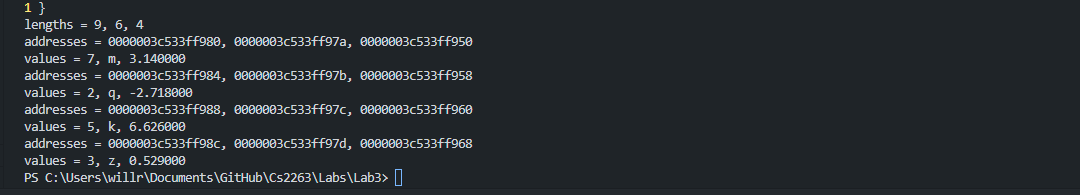
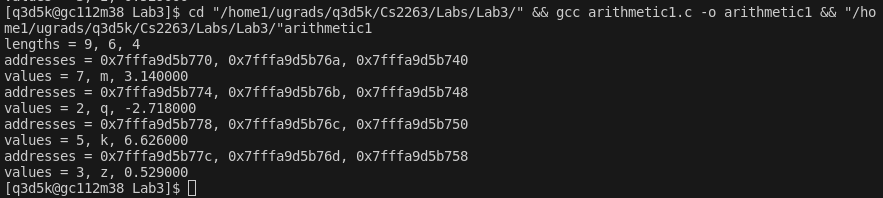
done

Changed region(s): [[0.0, 0.0, 1.0, 0.9846]]

diff --git a/Labs/Lab3/arithmetic1.c b/Labs/Lab3/arithmetic1.c
@@ -19,7 +19,7 @@ int main (int argc ,char * * argv)
     double * dptr = arr3;
 
 
-    printf("addresses = %p, %p, %p\n", (void*) iptr, (void*) cptr, (void*) dptr);
+    printf("addresses = %p, %p, %p\n",  iptr, cptr, dptr);
     printf("values = %d, %c, %f\n", * iptr, * cptr, * dptr);
 
 
@@ -28,7 +28,7 @@ int main (int argc ,char * * argv)
     dptr ++;
 
 
-    printf("addresses = %p, %p, %p\n", (void*) iptr, (void*) cptr, (void*) dptr);
+    printf("addresses = %p, %p, %p\n", iptr, cptr, dptr);
     printf("values = %d, %c, %f\n", * iptr, * cptr, * dptr);
 
 
@@ -36,7 +36,7 @@ int main (int argc ,char * * argv)
     cptr ++;
     dptr ++;
 
-    printf("addresses = %p, %p, %p\n", (void*) iptr, (void*) cptr, (void*) dptr);
+    printf("addresses = %p, %p, %p\n", iptr, cptr, dptr);
     printf("values = %d, %c, %f\n", * iptr, * cptr, * dptr);
 
 
@@ -45,7 +45,7 @@ int main (int argc ,char * * argv)
     dptr ++;
 
 
-    printf("addresses = %p, %p, %p\n", (void*) iptr, (void*) cptr, (void*) dptr);
+    printf("addresses = %p, %p, %p\n", iptr, cptr, dptr);
     printf("values = %d, %c, %f\n", * iptr, * cptr, * dptr);
 
 

diff --git a/Labs/Lab3/arrPrint.c b/Labs/Lab3/arrPrint.c
@@ -6,7 +6,7 @@ void printArray(int arr[], int len){
     int *aptr = arr;
     printf("Index\tValue\tAddress\t\t\tValue\n");
     for(int i = 0; i < len; i++){
-        printf("%d\t%d\t%p\t%d\n", i, arr[i], &arr[i], *aptr++);
+        printf("%d\t%d\t%p\t%d\n", i, arr[i], arr[i], *aptr++);
 
     }
 }
@@ -19,14 +19,14 @@ int arrindex(int a[], int * p){
 int main (int argc ,char * * argv)
 {
     //for exercise 2
-    int arr[] = {10, 11, 12, 13, 14, 15, 16};
-    int len = sizeof(arr) / sizeof(int);
-    printArray(arr, len);
+    // int arr[] = {10, 11, 12, 13, 14, 15, 16};
+    // int len = sizeof(arr) / sizeof(int);
+    // printArray(arr, len);
 
     //for exercise 3
-    // int arr[] = {10, 11, 12, 13, 14, 15, 16};
-    // for (int i = 0; i < sizeof(arr)/sizeof(arr[0]); i ++){
-    //     printf ("%d\t%p\n", i, arrindex( arr, & arr[i]));
-    // }
+    int arr[] = {10, 11, 12, 13, 14, 15, 16};
+    for (int i = 0; i < sizeof(arr)/sizeof(arr[0]); i ++){
+        printf ("%d\t%d\n", i, arrindex( arr, & arr[i]));
+    }
     return EXIT_SUCCESS;
 }

diff --git a/Labs/Lab3/wrongindex.c b/Labs/Lab3/wrongindex.c
@@ -17,13 +17,14 @@ int main(int argc, char * * argv)
 
 
     //one invaild
-    printf("& of arr[%d] = %p\n", -1, (void *)&arr[-1]);
+    printf("& of arr[%d] %d\t%p\n", -1,arr[-1], &arr[-1]);
 
     //all valid
-    for(int i = 0; i < sizeof(arr)/sizeof(arr[0]); i++){
-        printf("& of arr[%d] = %p\n", i, (void *)&arr[i]);
+    for(int i = 0; i < sizeof(arr)/sizeof(arr[0]) + 1; i++){
+
+        printf("& of arr[%d]\t%d\t%p\n", i,arr[i], &arr[i]);
+
     }
-   
 
     printf("x = %d, y = %d\n", x, y);
 

diff --git a/Labs/Lab3/README.md b/Labs/Lab3/README.md
@@ -103,17 +103,17 @@ Yes all the pointer varibles are being incremented between the successive print 
 
 #### tptr (int pointer)
 
-The increment is 4 bytes (0000003c533ff980 - 0000003c533ff984 - 0000003c533ff988 - 0000003c533ff98c)
+The increment is 4 bytes (0x7fffa9d5b770 - 0x7fffa9d5b774 - 0x7fffa9d5b778 - 0x7fffa9d5b77c)
 which is the size of the int in the program being run
 
 #### cptr (char pointer)
 
-The increment is 1 byte (0000003c533ff97a - 0000003c533ff97b - 0000003c533ff97c - 0000003c533ff97d)
+The increment is 1 byte (0x7fffa9d5b76a - 0x7fffa9d5b76b - 0x7fffa9d5b76c - 0x7fffa9d5b76d)
 which is the size of the char in the program being run
 
 #### dptr (double pointer)
 
-The increment is 8 bytes (0000003c533ff950 - 0000003c533ff958 - 0000003c533ff960 - 0000003c533ff968)
+The increment is 8 bytes (0x7fffa9d5b740 - 0x7fffa9d5b748 - 0x7fffa9d5b750 - 0x7fffa9d5b758)
 which is the size of the double in the program being run
 
 ### Are the increments for different pointers the same? Explain why.
@@ -142,7 +142,7 @@ void printArray(int arr[], int len){
     int *aptr = arr;
     printf("Index\tValue\tAddress\t\t\tValue\n");
     for(int i = 0; i < len; i++){
-        printf("%d\t%d\t%p\t%d\n", i, arr[i], &arr[i], *aptr++);
+        printf("%d\t%d\t%p\t%d\n", i, arr[i], arr[i], *aptr++);
 
     }
 }
@@ -184,23 +184,24 @@ int main (int argc ,char * * argv)
     //for exercise 3
     int arr[] = {10, 11, 12, 13, 14, 15, 16};
     for (int i = 0; i < sizeof(arr)/sizeof(arr[0]); i ++){
-        printf ("%d\t%p\n", i, arrindex( arr, & arr[i]));
+        printf ("%d\t%d\n", i, arrindex( arr, & arr[i]));
     }
     return EXIT_SUCCESS;
 }
 ```
 
 ### Output Screenshot
-![Screenshot](Ex3Output2.png)
+![Screenshot](Ex3Output.png)
 
 ## Exercise 4
 
 ## Compiler command
-`if ($?) { gcc wrongindex.c -o wrongindex } ; if ($?) { .\wrongindex }`
+`[q3d5k@gc112m38 Lab3]$ cd "/home1/ugrads/q3d5k/Cs2263/Labs/Lab3/" && gcc wrongindex.c -o wrongindex && "/home1/ugrads/q3d5k/Cs2263/Labs/Lab3/"wrongindex`
 
 ### source code 
 
 ```c
+
 /*
  * wrongindex.c
  */
@@ -220,13 +221,14 @@ int main(int argc, char * * argv)
 
 
     //one invaild
-    printf("& of arr[%d] = %p\n", -1, (void *)&arr[-1]);
+    printf("& of arr[%d] %d\t%p\n", -1,arr[-1], &arr[-1]);
 
     //all valid
-    for(int i = 0; i < sizeof(arr)/sizeof(arr[0]); i++){
-        printf("& of arr[%d] = %p\n", i, (void *)&arr[i]);
+    for(int i = 0; i < sizeof(arr)/sizeof(arr[0]) + 1; i++){
+
+        printf("& of arr[%d]\t%d\t%p\n", i,arr[i], &arr[i]);
+
     }
-   
 
     printf("x = %d, y = %d\n", x, y);
 
@@ -246,13 +248,14 @@ int main(int argc, char * * argv)
 
     return EXIT_SUCCESS;
 }
+
 ```
 
 ### Output Screenshot
 ![Screenshot](Ex4Output.png)
 
 ### Diagram of memory locations
-
+![Screenshot](Diagram.png)
 ### Are the results (i.e. numerical values) printed from your program different from the results shown in the textbook? Explain why
 
 #### Memory addresses
@@ -282,14 +285,15 @@ Similarly, y is changed because of this assignment:
 #### My Results
 
 ```
-& of x = 00000083661ffb98,
-& of y = 00000083661ffb7c
-& of arr[-1] = 00000083661ffb7c
-& of arr[0] = 00000083661ffb80
-& of arr[1] = 00000083661ffb84
-& of arr[2] = 00000083661ffb88
-& of arr[3] = 00000083661ffb8c
-& of arr[4] = 00000083661ffb90
+& of x = 0x7ffed4849c38,
+& of y = 0x7ffed4849c1c
+& of arr[-1] 	15 		0x7ffed4849c1c
+& of arr[0]     0       0x7ffed4849c20
+& of arr[1]     1       0x7ffed4849c24
+& of arr[2]     2       0x7ffed4849c28
+& of arr[3]     3       0x7ffed4849c2c
+& of arr[4]     4       0x7ffed4849c30
+& of arr[5]     0       0x7ffed4849c34
 x = -2, y = 15
 x = -2, y = 7
 x = 108, y = 7
